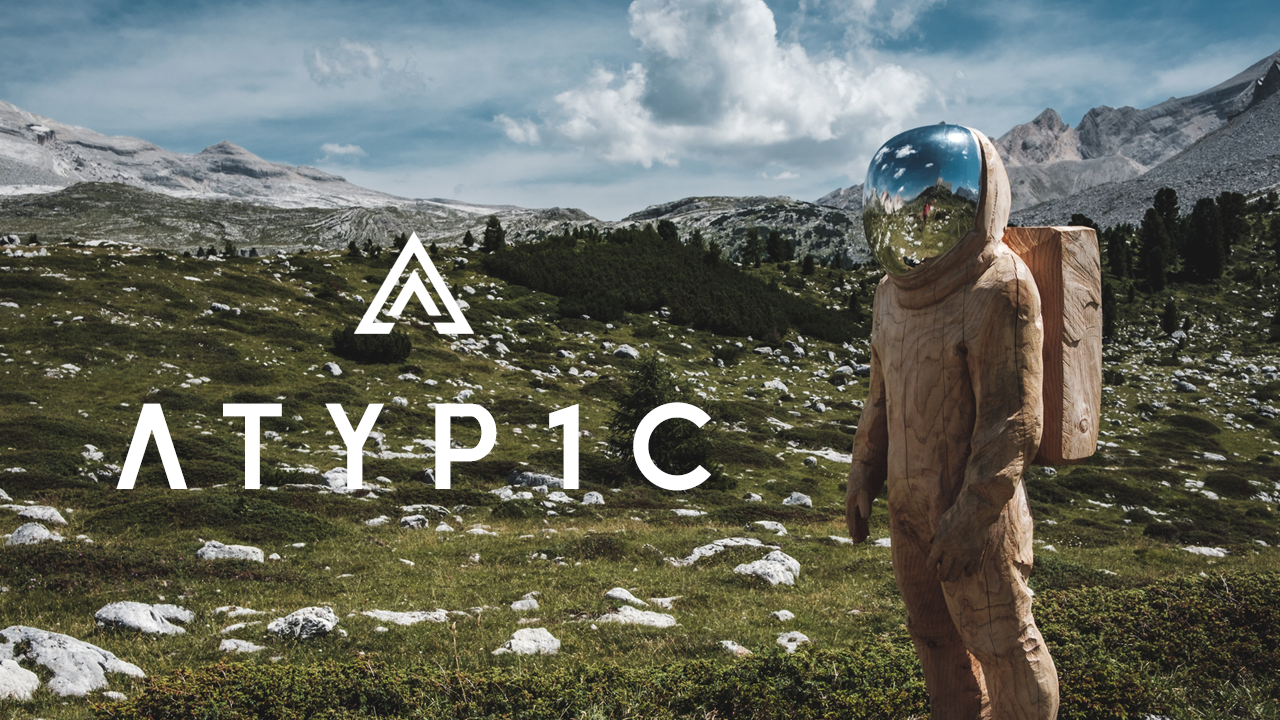
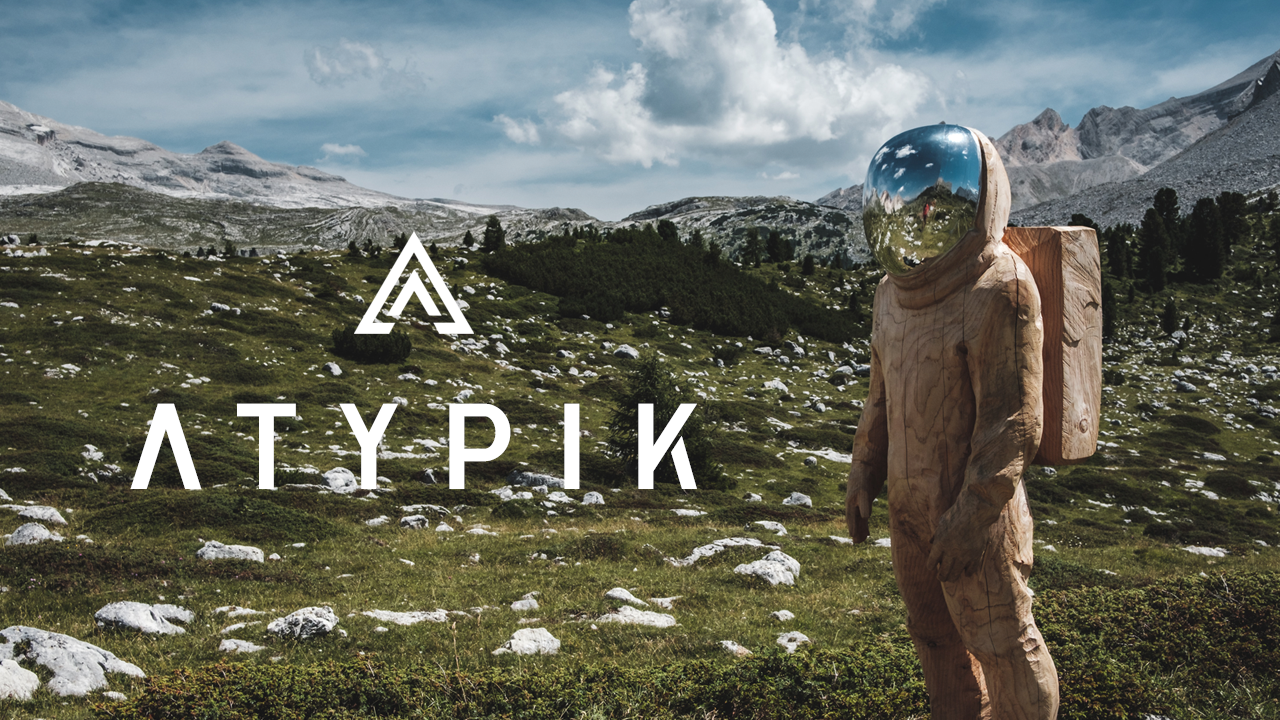
Change name

diff --git a/index.html b/index.html
@@ -2,21 +2,21 @@
 <html lang="en">
   <head>
     <meta charset="utf-8" />
-    <title>Atyp1c Watches • A touch of craziness in luxury watchmaking • Made in Belgium</title>
+    <title>Atypik Watches • A touch of craziness in luxury watchmaking • Made in Belgium</title>
     <meta name="viewport" content="width=device-width, initial-scale=1.0">
-    <meta name="description" content="Atyp1c Watches • A touch of craziness in luxury watchmaking • Made in Belgium" />
+    <meta name="description" content="Atypik Watches • A touch of craziness in luxury watchmaking • Made in Belgium" />
     <meta name="keywords" content="" />
-    <meta name="email" content="hello@atyp1c.com" />
-    <meta name="website" content="https://atyp1c.com" />
+    <meta name="email" content="hello@atypik.watch" />
+    <meta name="website" content="https://atypik.watch" />
     <meta name="Version" content="v1.0.0" />
     <meta property="og:type" content="website">
-    <meta property="og:url" content="https://atyp1c.com">
-    <meta property="og:title" content="Atyp1c Watches • A touch of craziness in luxury watchmaking • Made in Belgium">
-    <meta property="og:description" content="Atyp1c Watches • A touch of craziness in luxury watchmaking • Made in Belgium">
+    <meta property="og:url" content="https://atypik.watch">
+    <meta property="og:title" content="Atypik Watches • A touch of craziness in luxury watchmaking • Made in Belgium">
+    <meta property="og:description" content="Atypik Watches • A touch of craziness in luxury watchmaking • Made in Belgium">
     <meta property="twitter:card" content="summary_large_image">
-    <meta property="twitter:url" content="https://atyp1c.com">
-    <meta property="twitter:title" content="Atyp1c Watches • A touch of craziness in luxury watchmaking • Made in Belgium">
-    <meta property="twitter:description" content="Atyp1c Watches • A touch of craziness in luxury watchmaking • Made in Belgium">
+    <meta property="twitter:url" content="https://atypik.watch">
+    <meta property="twitter:title" content="Atypik Watches • A touch of craziness in luxury watchmaking • Made in Belgium">
+    <meta property="twitter:description" content="Atypik Watches • A touch of craziness in luxury watchmaking • Made in Belgium">
     <meta name=twitter:site content="@AtypicWatches">
     <meta property="og:image" content="/images/og-thumbnail.png">
     <meta property="twitter:image" content="/images/twitter-thumbnail.png">
@@ -46,9 +46,9 @@
         </form>
 
         <ul id="social-links">
-          <li><a href="https://instagram.com/Atyp1cWatches" class="instagram">Follow Atyp1c Watches on Instagram</a></li>
-          <li><a href="https://facebook.com/Atyp1c" class="facebook">Follow Atyp1c Watches on Facebook</a></li>
-          <li><a href="https://twitter.com/Atyp1cWatches" class="twitter">Follow Atyp1c Watches on Twitter</a></li>
+          <li><a href="https://instagram.com/AtypikWatches" class="instagram">Follow Atypik Watches on Instagram</a></li>
+          <li><a href="https://facebook.com/AtypikWatches" class="facebook">Follow Atypik Watches on Facebook</a></li>
+          <li><a href="https://twitter.com/AtypikWatches" class="twitter">Follow Atypik Watches on Twitter</a></li>
         </ul>
       </div>
     </div>

diff --git a/subscribed.html b/subscribed.html
@@ -2,22 +2,22 @@
 <html lang="en">
   <head>
     <meta charset="utf-8" />
-    <title>Atyp1c Watches • A touch of craziness in luxury watchmaking • Made in Belgium</title>
+    <title>Atypik Watches • A touch of craziness in luxury watchmaking • Made in Belgium</title>
     <meta name="viewport" content="width=device-width, initial-scale=1.0">
-    <meta name="description" content="Atyp1c Watches • A touch of craziness in luxury watchmaking • Made in Belgium" />
+    <meta name="description" content="Atypik Watches • A touch of craziness in luxury watchmaking • Made in Belgium" />
     <meta name="keywords" content="" />
-    <meta name="email" content="hello@atyp1c.com" />
-    <meta name="website" content="https://atyp1c.com" />
+    <meta name="email" content="hello@atypik.watch" />
+    <meta name="website" content="https://atypik.watch" />
     <meta name="Version" content="v1.0.0" />
     <meta property="og:type" content="website">
-    <meta property="og:url" content="https://atyp1c.com">
-    <meta property="og:title" content="Atyp1c Watches • A touch of craziness in luxury watchmaking • Made in Belgium">
-    <meta property="og:description" content="Atyp1c Watches • A touch of craziness in luxury watchmaking • Made in Belgium">
+    <meta property="og:url" content="https://atypik.watch">
+    <meta property="og:title" content="Atypik Watches • A touch of craziness in luxury watchmaking • Made in Belgium">
+    <meta property="og:description" content="Atypik Watches • A touch of craziness in luxury watchmaking • Made in Belgium">
     <meta property="twitter:card" content="summary_large_image">
-    <meta property="twitter:url" content="https://atyp1c.com">
-    <meta property="twitter:title" content="Atyp1c Watches • A touch of craziness in luxury watchmaking • Made in Belgium">
-    <meta property="twitter:description" content="Atyp1c Watches • A touch of craziness in luxury watchmaking • Made in Belgium">
-    <meta name=twitter:site content="@Atyp1cWatches">
+    <meta property="twitter:url" content="https://atypik.watch">
+    <meta property="twitter:title" content="Atypik Watches • A touch of craziness in luxury watchmaking • Made in Belgium">
+    <meta property="twitter:description" content="Atypik Watches • A touch of craziness in luxury watchmaking • Made in Belgium">
+    <meta name=twitter:site content="@AtypicWatches">
     <meta property="og:image" content="/images/og-thumbnail.png">
     <meta property="twitter:image" content="/images/twitter-thumbnail.png">
 
